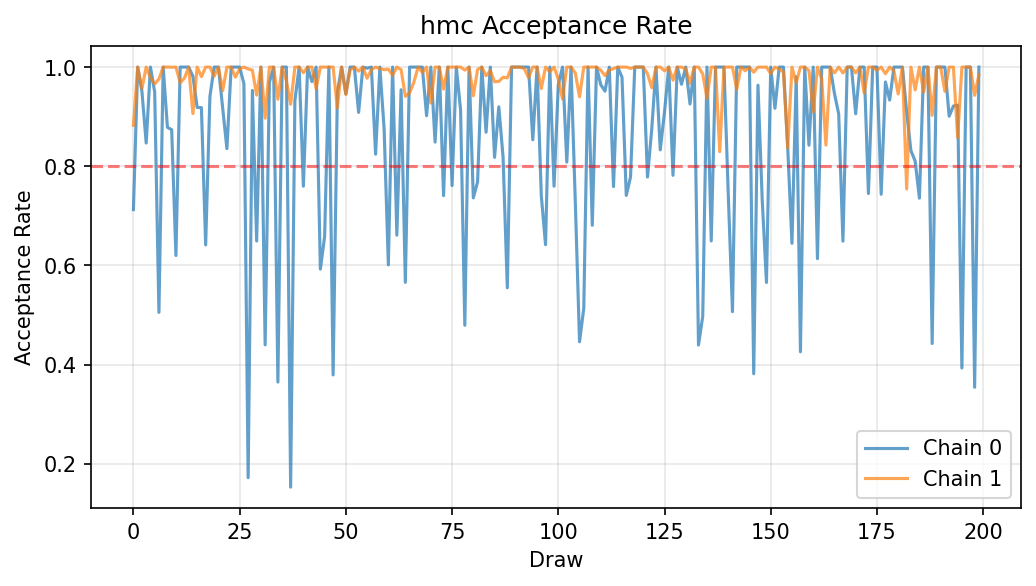
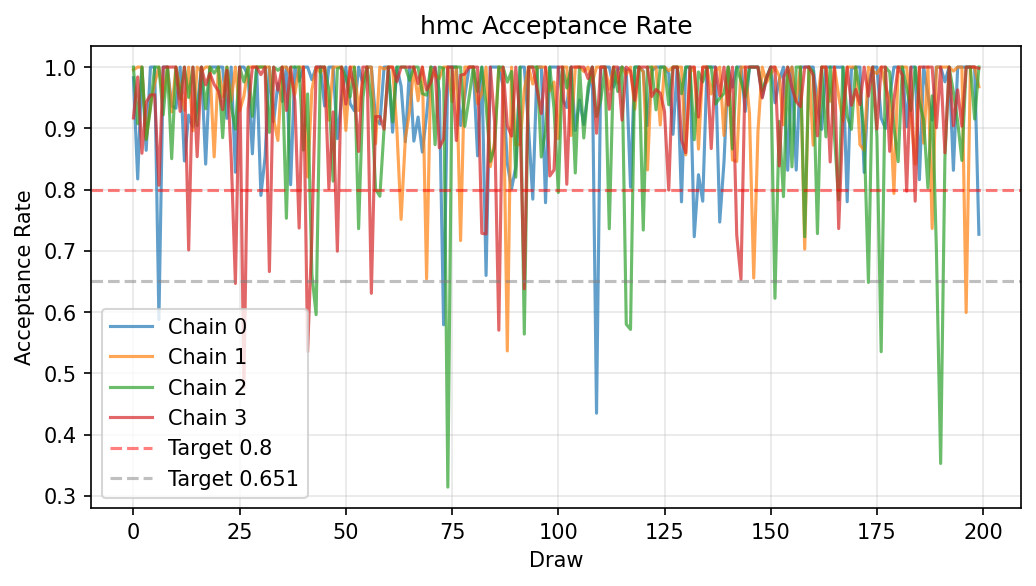
better diag plots

diff --git a/scripts/promote_readme_images.py b/scripts/promote_readme_images.py
@@ -17,15 +17,23 @@ from datetime import datetime
 sys.path.insert(0, str(Path(__file__).parent.parent))
 from llc.manifest import is_run_completed, get_run_start_time
 
-# Which files to copy (left = substring to match in artifacts, right = stable name in assets)
+# Which files to copy (source key -> stable asset name).
+# We prefer exact filename matches; else substring fallback.
 SELECT = [
-    ("sgld_running_llc", "sgld_llc_running.png"),
-    ("hmc_running_llc", "hmc_llc_running.png"),
-    ("mclmc_running_llc", "mclmc_llc_running.png"),
-    ("hmc_acceptance", "hmc_acceptance.png"),
-    ("hmc_Ln_trace", "hmc_L_trace.png"),
-    ("hmc_Ln_acf", "hmc_L_acf.png"),
-    ("mclmc_energy_hist", "mclmc_energy_hist.png"),
+    # Running LLC (one per sampler)
+    ("sgld_running_llc.png", "sgld_llc_running.png"),
+    ("hmc_running_llc.png", "hmc_llc_running.png"),
+    ("mclmc_running_llc.png", "mclmc_llc_running.png"),
+    # HMC diagnostics
+    ("hmc_acceptance.png", "hmc_acceptance.png"),
+    ("hmc_energy.png", "hmc_energy.png"),
+    # ArviZ-first LLC diagnostics
+    ("hmc_llc_rank.png", "llc_rank.png"),
+    ("hmc_llc_ess_evolution.png", "llc_ess_evolution.png"),
+    # Optionally include one centered L_n for pedagogy
+    ("hmc_Ln_centered.png", "Ln_centered.png"),
+    # If you still want an energy histogram for MCLMC, keep it:
+    ("mclmc_energy_hist.png", "mclmc_energy_hist.png"),
 ]
 
 
@@ -106,8 +114,14 @@ def _latest_from_artifacts(artifacts_dir: Path) -> Path:
 
 
 def find_first_match(run_dir: Path, key: str) -> Path | None:
-    """Find the first PNG file containing the key substring (follow symlinks)."""
+    """
+    Prefer exact filename match; fall back to substring.
+    """
     base = run_dir.resolve() if run_dir.exists() else run_dir
+    exact = base / key
+    if exact.exists():
+        return exact
+    # substring fallback for backward compatibility
     for p in sorted(base.glob("*.png")):
         if key in p.name:
             return p
@@ -143,7 +157,10 @@ def main():
         copied += 1
 
     if copied == 0:
-        print("No images copied. Did this run save plots? (save_plots=True)")
+        print(
+            "No images copied. Did this run save plots? (save_plots=True) "
+            "Or are you running an old diagnostics set?"
+        )
     else:
         print(f"Done. Copied {copied} images.")
         print(

diff --git a/llc/cli_click.py b/llc/cli_click.py
@@ -302,10 +302,12 @@ def run(**kwargs):
     from llc.tasks import run_experiment_task
 
     if backend == "modal":
-        from modal_app import run_experiment_remote
+        # Ensure the Modal App is running so the function hydrates
+        from modal_app import app, run_experiment_remote
 
-        executor = get_executor(backend="modal", remote_fn=run_experiment_remote)
-        [result_dict] = executor.map(run_experiment_task, [cfg_dict])
+        with app.run():
+            executor = get_executor(backend="modal", remote_fn=run_experiment_remote)
+            [result_dict] = executor.map(run_experiment_task, [cfg_dict])
 
         # Download artifacts locally (optional convenience)
         _extract_modal_artifacts_locally(result_dict)
@@ -383,7 +385,7 @@ def sweep(**kwargs):
     # Modal handle (if needed)
     remote_fn = None
     if backend == "modal":
-        from modal_app import run_experiment_remote
+        from modal_app import app, run_experiment_remote
 
         remote_fn = run_experiment_remote
         modal_opts = {"max_containers": 1, "min_containers": 0, "buffer_containers": 0}
@@ -394,12 +396,14 @@ def sweep(**kwargs):
     from llc.execution import get_executor
     from llc.tasks import run_experiment_task
 
-    executor = get_executor(
-        backend=backend,
-        workers=workers if backend == "local" else None,
-        remote_fn=remote_fn,
-        options=modal_opts,
-    )
+    def _run_map():
+        ex = get_executor(
+            backend=backend,
+            workers=workers if backend == "local" else None,
+            remote_fn=remote_fn,
+            options=modal_opts,
+        )
+        return ex.map(run_experiment_task, cfg_dicts)
 
     # Build cfg dicts with schema hash
     cfg_dicts = []
@@ -411,7 +415,12 @@ def sweep(**kwargs):
         d["config_schema"] = schema
         cfg_dicts.append(d)
 
-    results = executor.map(run_experiment_task, cfg_dicts)
+    if backend == "modal":
+        # Hydrate functions by running inside the app context
+        with app.run():
+            results = _run_map()
+    else:
+        results = _run_map()
 
     # For Modal, optionally pull artifacts locally (convenience)
     if backend == "modal":

diff --git a/README.md b/README.md
@@ -37,34 +37,40 @@ Ultimately, we want to devise and evaluate new sampling algorithms for singular 
     - HMC acceptance-rate histogram; MCLMC energy-change histogram.
   - **Work-normalized variance (WNV)** metrics: variance of LLC estimate × (wall-clock time or gradient-equivalent count). Automatically computed for all samplers to enable efficiency comparisons across parameter dimensions.
 
-## Examples
+## Representative diagnostics
 
-These are examples from a recent run.
+These examples come from a quick run with 4 chains (`--preset=quick`), using ArviZ for convergence diagnostics.
 
-### Running LLC Estimates
+- **Running LLC (SGLD / HMC / MCLMC)** — per-chain and pooled running estimates of
+  $\mathrm{LLC} = n\,\beta\,(E[L_n] - L_0)$. Horizontal band shows final mean ± 2·SE (ESS-based).
 
 ![SGLD running LLC](assets/readme/sgld_llc_running.png)
-*SGLD: Running Local Learning Coefficient estimates showing convergence over sampling iterations*
-
 ![HMC running LLC](assets/readme/hmc_llc_running.png)
-*HMC: Running LLC estimates with multiple chains and pooled estimate*
-
 ![MCLMC running LLC](assets/readme/mclmc_llc_running.png)
-*MCLMC: Running LLC estimates showing sampling efficiency*
 
-### MCMC Diagnostics
+- **Rank plot (LLC)** — chain-wise rank histograms should be near-uniform when chains target the same posterior for LLC.
 
-![HMC L_n Traces](assets/readme/hmc_L_trace.png)
-*HMC: Trace plots of loss function values L_n across chains*
+![LLC rank](assets/readme/llc_rank.png)
 
-![HMC Autocorrelation](assets/readme/hmc_L_acf.png)
-*HMC: Autocorrelation function for L_n showing mixing properties*
+- **ESS evolution (LLC)** — effective sample size growth across draws; we aim for large ESS and plateauing curves.
 
-![HMC Acceptance](assets/readme/hmc_acceptance.png)
-*HMC: Acceptance rate distribution across chains*
+![LLC ESS evolution](assets/readme/llc_ess_evolution.png)
 
-![MCLMC Energy Changes](assets/readme/mclmc_energy_hist.png)
-*MCLMC: Energy change distribution showing microcanonical dynamics*
+- **HMC acceptance** — per-chain acceptance with reference bands (0.651 and 0.8).
+
+![HMC acceptance](assets/readme/hmc_acceptance.png)
+
+- **HMC energy** — Hamiltonian energy diagnostic (ArviZ). Heavy tails or multimodality show up as irregular densities.
+
+![HMC energy](assets/readme/hmc_energy.png)
+
+- *(Optional, pedagogical)* **Centered loss** — raw traces of $L_n - L_0$ per chain, to visualize what LLC centers on.
+
+![Centered Ln](assets/readme/Ln_centered.png)
+
+**Notes.**
+- We run **4 chains** by default for reliable R-hat and ESS.
+- If `llc_rank` looks non-uniform or R-hat ≥ 1.01, increase draws, reduce thinning, or adjust adaptation.
 
 ---
 
